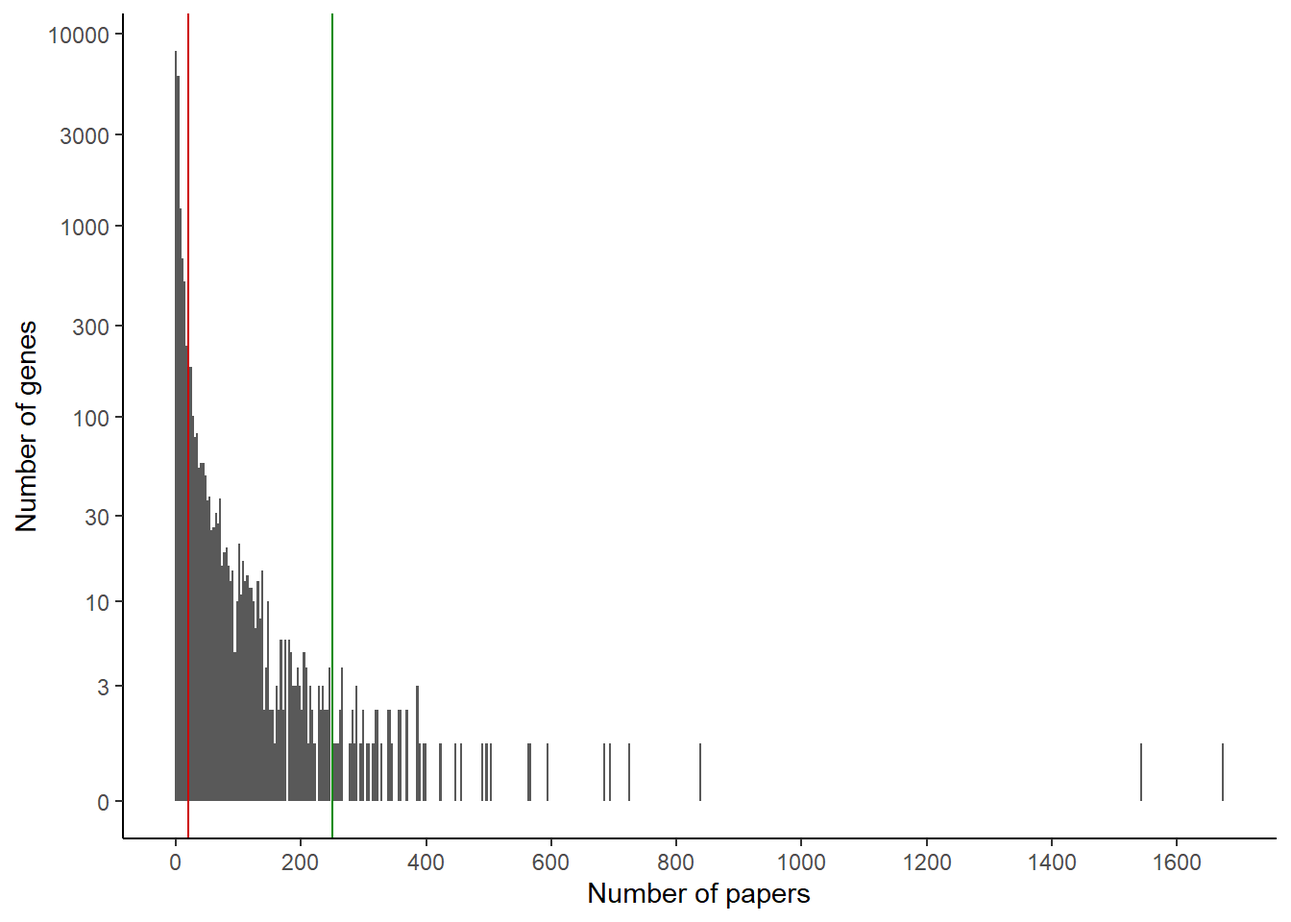
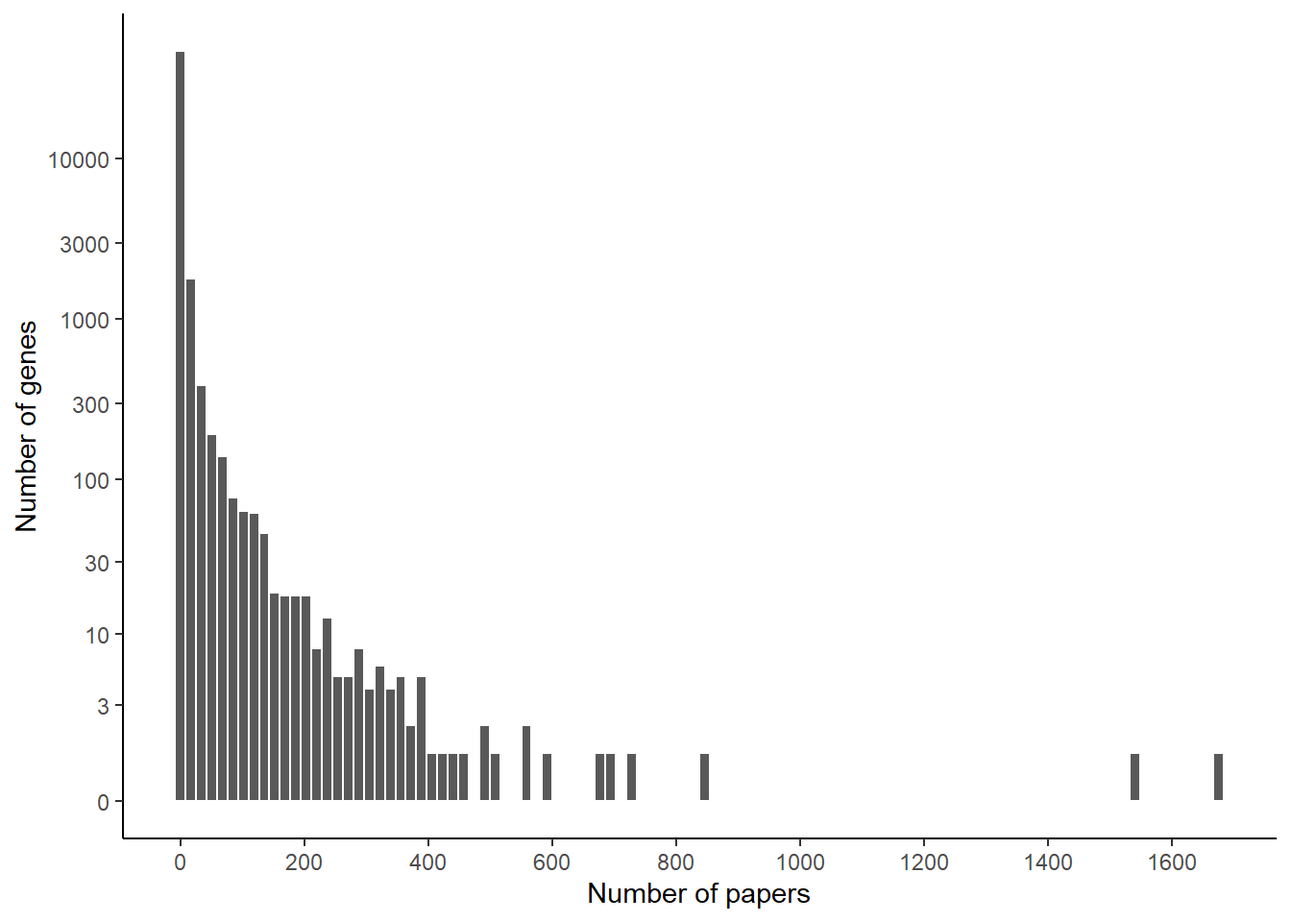
Built site for gh-pages

diff --git a/posts/most_studied_genes/index.html b/posts/most_studied_genes/index.html
@@ -2,7 +2,7 @@
 <html xmlns="http://www.w3.org/1999/xhtml" lang="en" xml:lang="en"><head>
 
 <meta charset="utf-8">
-<meta name="generator" content="quarto-1.3.353">
+<meta name="generator" content="quarto-1.3.433">
 
 <meta name="viewport" content="width=device-width, initial-scale=1.0, user-scalable=yes">
 
@@ -91,7 +91,8 @@ pre > code.sourceCode > span > a:first-child::before { text-decoration: underlin
     "search-more-matches-text": "more matches in this document",
     "search-clear-button-title": "Clear",
     "search-detached-cancel-button-title": "Cancel",
-    "search-submit-button-title": "Submit"
+    "search-submit-button-title": "Submit",
+    "search-label": "Search"
   }
 }</script>
 
@@ -184,39 +185,23 @@ pre > code.sourceCode > span > a:first-child::before { text-decoration: underlin
 <section id="data-download" class="level1">
 <h1>Data download</h1>
 <p>We want to find how many publications are associated with each gene. Wormbase offers us several tools to that effect, we will use SimpleMine which is the easiest here. Other possibilities include WormMine or the REST API.</p>
-<p>So, we open <a href="https://wormbase.org//tools/mine/simplemine.cgi">SimpleMine</a>, in Step 2 we select “download results as a tab-delimited file”, in Step 3 we select “Wormbase Gene ID”, “Public Name”, “Expr_pattern Tissue” and “Reference”. And in Step 4 we download “all genes for this species”.</p>
+<p>In a browser, we open <a href="https://wormbase.org//tools/mine/simplemine.cgi">SimpleMine</a>. For “Step 1”, we can simply select <em>Caenorhabditis elegans</em>, in “Step 2” we will “download results as a tab-delimited file”, in Step 3 we select “Wormbase Gene ID”, “Public Name”, “Expr_pattern Tissue” and “Reference”. And in Step 4 we download “all genes for this species”.</p>
+<p>We can then download the data. We need a tool to process it, here, I will use R.</p>
 <section id="data-loading" class="level2">
 <h2 class="anchored" data-anchor-id="data-loading">Data loading</h2>
-<p>Now we read this data in R. We also rename the columns for names that are easier to work with. And if you look through the data, you may notice a number of genes do not have references associated, we need to ensure this is registered correctly.</p>
+<p>The first step is to read the data into R, we also rename the columns for names that are easier to work with. And if you look through the data, you may notice a number of genes do not have references associated (marked as “N.A.”), we need to ensure this is registered correctly.</p>
 <div class="cell">
-<div class="sourceCode cell-code" id="cb1"><pre class="sourceCode r code-with-copy"><code class="sourceCode r"><span id="cb1-1"><a href="#cb1-1" aria-hidden="true" tabindex="-1"></a><span class="fu">suppressPackageStartupMessages</span>(<span class="fu">library</span>(tidyverse))</span></code><button title="Copy to Clipboard" class="code-copy-button"><i class="bi"></i></button></pre></div>
-<div class="cell-output cell-output-stderr">
-<pre><code>Warning: package 'tidyverse' was built under R version 4.3.2</code></pre>
-</div>
-<div class="cell-output cell-output-stderr">
-<pre><code>Warning: package 'ggplot2' was built under R version 4.3.2</code></pre>
-</div>
-<div class="cell-output cell-output-stderr">
-<pre><code>Warning: package 'tidyr' was built under R version 4.3.2</code></pre>
-</div>
-<div class="cell-output cell-output-stderr">
-<pre><code>Warning: package 'dplyr' was built under R version 4.3.2</code></pre>
-</div>
-<div class="cell-output cell-output-stderr">
-<pre><code>Warning: package 'forcats' was built under R version 4.3.2</code></pre>
-</div>
-<div class="cell-output cell-output-stderr">
-<pre><code>Warning: package 'lubridate' was built under R version 4.3.2</code></pre>
-</div>
-<div class="sourceCode cell-code" id="cb8"><pre class="sourceCode r code-with-copy"><code class="sourceCode r"><span id="cb8-1"><a href="#cb8-1" aria-hidden="true" tabindex="-1"></a>simplemine_results <span class="ot">&lt;-</span> <span class="fu">read_tsv</span>(<span class="st">"data/simplemine_results.txt"</span>,</span>
-<span id="cb8-2"><a href="#cb8-2" aria-hidden="true" tabindex="-1"></a>                               <span class="at">col_types =</span> <span class="st">"ccccc"</span>,</span>
-<span id="cb8-3"><a href="#cb8-3" aria-hidden="true" tabindex="-1"></a>                               <span class="at">na =</span> <span class="st">"N.A."</span>) <span class="sc">|&gt;</span></span>
-<span id="cb8-4"><a href="#cb8-4" aria-hidden="true" tabindex="-1"></a>  <span class="fu">select</span>(<span class="at">gene_id =</span> <span class="st">`</span><span class="at">WormBase Gene ID</span><span class="st">`</span>,</span>
-<span id="cb8-5"><a href="#cb8-5" aria-hidden="true" tabindex="-1"></a>         <span class="at">gene_name =</span> <span class="st">`</span><span class="at">Public Name</span><span class="st">`</span>,</span>
-<span id="cb8-6"><a href="#cb8-6" aria-hidden="true" tabindex="-1"></a>         <span class="at">expr_pattern =</span> <span class="st">`</span><span class="at">Expr_pattern Tissue</span><span class="st">`</span>,</span>
-<span id="cb8-7"><a href="#cb8-7" aria-hidden="true" tabindex="-1"></a>         <span class="at">references =</span> Reference)</span>
-<span id="cb8-8"><a href="#cb8-8" aria-hidden="true" tabindex="-1"></a></span>
-<span id="cb8-9"><a href="#cb8-9" aria-hidden="true" tabindex="-1"></a>simplemine_results</span></code><button title="Copy to Clipboard" class="code-copy-button"><i class="bi"></i></button></pre></div>
+<div class="sourceCode cell-code" id="cb1"><pre class="sourceCode r code-with-copy"><code class="sourceCode r"><span id="cb1-1"><a href="#cb1-1" aria-hidden="true" tabindex="-1"></a><span class="fu">suppressPackageStartupMessages</span>(<span class="fu">library</span>(tidyverse))</span>
+<span id="cb1-2"><a href="#cb1-2" aria-hidden="true" tabindex="-1"></a></span>
+<span id="cb1-3"><a href="#cb1-3" aria-hidden="true" tabindex="-1"></a>simplemine_results <span class="ot">&lt;-</span> <span class="fu">read_tsv</span>(<span class="st">"data/simplemine_results.txt"</span>,</span>
+<span id="cb1-4"><a href="#cb1-4" aria-hidden="true" tabindex="-1"></a>                               <span class="at">col_types =</span> <span class="st">"ccccc"</span>,</span>
+<span id="cb1-5"><a href="#cb1-5" aria-hidden="true" tabindex="-1"></a>                               <span class="at">na =</span> <span class="st">"N.A."</span>) <span class="sc">|&gt;</span></span>
+<span id="cb1-6"><a href="#cb1-6" aria-hidden="true" tabindex="-1"></a>  <span class="fu">select</span>(<span class="at">gene_id =</span> <span class="st">`</span><span class="at">WormBase Gene ID</span><span class="st">`</span>,</span>
+<span id="cb1-7"><a href="#cb1-7" aria-hidden="true" tabindex="-1"></a>         <span class="at">gene_name =</span> <span class="st">`</span><span class="at">Public Name</span><span class="st">`</span>,</span>
+<span id="cb1-8"><a href="#cb1-8" aria-hidden="true" tabindex="-1"></a>         <span class="at">expr_pattern =</span> <span class="st">`</span><span class="at">Expr_pattern Tissue</span><span class="st">`</span>,</span>
+<span id="cb1-9"><a href="#cb1-9" aria-hidden="true" tabindex="-1"></a>         <span class="at">references =</span> Reference)</span>
+<span id="cb1-10"><a href="#cb1-10" aria-hidden="true" tabindex="-1"></a></span>
+<span id="cb1-11"><a href="#cb1-11" aria-hidden="true" tabindex="-1"></a>simplemine_results</span></code><button title="Copy to Clipboard" class="code-copy-button"><i class="bi"></i></button></pre></div>
 <div class="cell-output cell-output-stdout">
 <pre><code># A tibble: 49,541 × 4
    gene_id        gene_name expr_pattern                              references
@@ -234,84 +219,119 @@ pre > code.sourceCode > span > a:first-child::before { text-decoration: underlin
 # ℹ 49,531 more rows</code></pre>
 </div>
 </div>
-<p>So w have one row per gene, let’s make it one row per reference and count the number of rows for a given gene.</p>
+<p>In this format, the references are all packed in a single long string. We can count how many there are by relying on the consistent format. We just need to handle the case of references being “NA”. R would interpret it as “some unknown number of references”, but we know this actually means “no reference”.</p>
 <div class="cell">
-<div class="sourceCode cell-code" id="cb10"><pre class="sourceCode r code-with-copy"><code class="sourceCode r"><span id="cb10-1"><a href="#cb10-1" aria-hidden="true" tabindex="-1"></a>papers_per_gene <span class="ot">&lt;-</span> simplemine_results <span class="sc">|&gt;</span></span>
-<span id="cb10-2"><a href="#cb10-2" aria-hidden="true" tabindex="-1"></a>  <span class="fu">separate_rows</span>(references, <span class="at">sep =</span> <span class="st">","</span>) <span class="sc">|&gt;</span></span>
-<span id="cb10-3"><a href="#cb10-3" aria-hidden="true" tabindex="-1"></a>  <span class="fu">filter</span>(<span class="sc">!</span><span class="fu">is.na</span>(references)) <span class="sc">|&gt;</span></span>
-<span id="cb10-4"><a href="#cb10-4" aria-hidden="true" tabindex="-1"></a>  <span class="fu">group_by</span>(gene_id, gene_name) <span class="sc">|&gt;</span></span>
-<span id="cb10-5"><a href="#cb10-5" aria-hidden="true" tabindex="-1"></a>  <span class="fu">summarize</span>(<span class="at">nb_papers =</span> <span class="fu">n</span>(),</span>
-<span id="cb10-6"><a href="#cb10-6" aria-hidden="true" tabindex="-1"></a>            <span class="at">.groups =</span> <span class="st">"drop"</span>) <span class="sc">|&gt;</span></span>
-<span id="cb10-7"><a href="#cb10-7" aria-hidden="true" tabindex="-1"></a>  <span class="fu">arrange</span>(<span class="fu">desc</span>(nb_papers))</span>
-<span id="cb10-8"><a href="#cb10-8" aria-hidden="true" tabindex="-1"></a></span>
-<span id="cb10-9"><a href="#cb10-9" aria-hidden="true" tabindex="-1"></a>papers_per_gene</span></code><button title="Copy to Clipboard" class="code-copy-button"><i class="bi"></i></button></pre></div>
+<div class="sourceCode cell-code" id="cb3"><pre class="sourceCode r code-with-copy"><code class="sourceCode r"><span id="cb3-1"><a href="#cb3-1" aria-hidden="true" tabindex="-1"></a>papers_per_gene <span class="ot">&lt;-</span> simplemine_results <span class="sc">|&gt;</span></span>
+<span id="cb3-2"><a href="#cb3-2" aria-hidden="true" tabindex="-1"></a>  <span class="fu">mutate</span>(<span class="at">nb_papers =</span> <span class="fu">str_count</span>(references, <span class="st">"WBPaper</span><span class="sc">\\</span><span class="st">d{8}"</span>),</span>
+<span id="cb3-3"><a href="#cb3-3" aria-hidden="true" tabindex="-1"></a>         <span class="at">nb_papers =</span> <span class="fu">if_else</span>(<span class="fu">is.na</span>(references), <span class="dv">0</span>, nb_papers)) <span class="sc">|&gt;</span></span>
+<span id="cb3-4"><a href="#cb3-4" aria-hidden="true" tabindex="-1"></a>  <span class="fu">arrange</span>(<span class="fu">desc</span>(nb_papers))</span>
+<span id="cb3-5"><a href="#cb3-5" aria-hidden="true" tabindex="-1"></a></span>
+<span id="cb3-6"><a href="#cb3-6" aria-hidden="true" tabindex="-1"></a>papers_per_gene</span></code><button title="Copy to Clipboard" class="code-copy-button"><i class="bi"></i></button></pre></div>
 <div class="cell-output cell-output-stdout">
-<pre><code># A tibble: 18,369 × 3
-   gene_id        gene_name nb_papers
-   &lt;chr&gt;          &lt;chr&gt;         &lt;int&gt;
- 1 WBGene00000912 daf-16         1675
- 2 WBGene00000898 daf-2          1543
- 3 WBGene00001609 glp-1           838
- 4 WBGene00000417 ced-3           724
- 5 WBGene00004804 skn-1           695
- 6 WBGene00003001 lin-12          685
- 7 WBGene00000090 age-1           595
- 8 WBGene00002335 let-60          566
- 9 WBGene00006789 unc-54          562
-10 WBGene00000418 ced-4           502
-# ℹ 18,359 more rows</code></pre>
+<pre><code># A tibble: 49,541 × 5
+   gene_id        gene_name expr_pattern                    references nb_papers
+   &lt;chr&gt;          &lt;chr&gt;     &lt;chr&gt;                           &lt;chr&gt;          &lt;dbl&gt;
+ 1 WBGene00000912 daf-16    AIYL, AIYR, anterior distal ti… WBPaper00…      1675
+ 2 WBGene00000898 daf-2     ADFL, ADFR, amphid neuron, ASH… WBPaper00…      1543
+ 3 WBGene00001609 glp-1     AB, AB lineage cell, ABa, ABal… WBPaper00…       838
+ 4 WBGene00000417 ced-3     ABaraapapaa, ABaraapapaad, ABa… WBPaper00…       724
+ 5 WBGene00004804 skn-1     AB, ABa, ABp, AIYL, AIYR, ante… WBPaper00…       695
+ 6 WBGene00003001 lin-12    ABplaaa, ABplpapp, ccDL, ccDR,… WBPaper00…       685
+ 7 WBGene00000090 age-1     accessory cell, amphid neuron,… WBPaper00…       595
+ 8 WBGene00002335 let-60    AIMR, AIYR, anchor cell, anter… WBPaper00…       566
+ 9 WBGene00006789 unc-54    anal depressor muscle, anal sp… WBPaper00…       562
+10 WBGene00000418 ced-4     anal sphincter muscle, apoptot… WBPaper00…       502
+# ℹ 49,531 more rows</code></pre>
 </div>
 </div>
-<p>Perhaps unsurprisingly, the 2 most studied genes in worms are <em>daf-2</em> and <em>daf-16</em>. Then we see a lot more genes that are quite well-studied too. Let’s look at the distribution to see if there are distinct classes.</p>
+<p>Alternatively, an approach that is less efficient here, but maybe more general, is to make it one row per reference and count the number of rows for a given gene.</p>
 <div class="cell">
-<div class="sourceCode cell-code" id="cb12"><pre class="sourceCode r code-with-copy"><code class="sourceCode r"><span id="cb12-1"><a href="#cb12-1" aria-hidden="true" tabindex="-1"></a><span class="fu">ggplot</span>(papers_per_gene) <span class="sc">+</span></span>
-<span id="cb12-2"><a href="#cb12-2" aria-hidden="true" tabindex="-1"></a>  <span class="fu">geom_histogram</span>(<span class="fu">aes</span>(<span class="at">x=</span>nb_papers), <span class="at">bins =</span> <span class="dv">100</span>, <span class="at">color =</span> <span class="st">"white"</span>) <span class="sc">+</span></span>
-<span id="cb12-3"><a href="#cb12-3" aria-hidden="true" tabindex="-1"></a>  <span class="fu">theme_classic</span>() <span class="sc">+</span></span>
-<span id="cb12-4"><a href="#cb12-4" aria-hidden="true" tabindex="-1"></a>  <span class="fu">scale_x_continuous</span>(<span class="at">n.breaks =</span> <span class="dv">10</span>) <span class="sc">+</span></span>
-<span id="cb12-5"><a href="#cb12-5" aria-hidden="true" tabindex="-1"></a>  <span class="fu">scale_y_continuous</span>(<span class="at">trans =</span> <span class="st">"log1p"</span>, <span class="at">breaks =</span> <span class="fu">c</span>(<span class="dv">0</span>,<span class="dv">3</span>,<span class="dv">10</span>,<span class="dv">30</span>,<span class="dv">100</span>,<span class="dv">300</span>,<span class="dv">1000</span>,<span class="dv">3000</span>,<span class="dv">10000</span>)) <span class="sc">+</span></span>
-<span id="cb12-6"><a href="#cb12-6" aria-hidden="true" tabindex="-1"></a>  <span class="fu">xlab</span>(<span class="st">"Number of papers"</span>) <span class="sc">+</span> <span class="fu">ylab</span>(<span class="st">"Number of genes"</span>)</span></code><button title="Copy to Clipboard" class="code-copy-button"><i class="bi"></i></button></pre></div>
-<div class="cell-output-display">
-<p><img src="index_files/figure-html/unnamed-chunk-3-1.png" class="img-fluid" width="672"></p>
+<div class="sourceCode cell-code" id="cb5"><pre class="sourceCode r code-with-copy"><code class="sourceCode r"><span id="cb5-1"><a href="#cb5-1" aria-hidden="true" tabindex="-1"></a>papers_per_gene2 <span class="ot">&lt;-</span> simplemine_results <span class="sc">|&gt;</span></span>
+<span id="cb5-2"><a href="#cb5-2" aria-hidden="true" tabindex="-1"></a>  <span class="fu">separate_rows</span>(references, <span class="at">sep =</span> <span class="st">","</span>) <span class="sc">|&gt;</span></span>
+<span id="cb5-3"><a href="#cb5-3" aria-hidden="true" tabindex="-1"></a>  <span class="fu">filter</span>(<span class="sc">!</span><span class="fu">is.na</span>(references)) <span class="sc">|&gt;</span></span>
+<span id="cb5-4"><a href="#cb5-4" aria-hidden="true" tabindex="-1"></a>  <span class="fu">group_by</span>(gene_id, gene_name) <span class="sc">|&gt;</span></span>
+<span id="cb5-5"><a href="#cb5-5" aria-hidden="true" tabindex="-1"></a>  <span class="fu">summarize</span>(<span class="at">nb_papers =</span> <span class="fu">n</span>(),</span>
+<span id="cb5-6"><a href="#cb5-6" aria-hidden="true" tabindex="-1"></a>            <span class="at">.groups =</span> <span class="st">"drop"</span>) <span class="sc">|&gt;</span></span>
+<span id="cb5-7"><a href="#cb5-7" aria-hidden="true" tabindex="-1"></a>  <span class="fu">arrange</span>(<span class="fu">desc</span>(nb_papers))</span>
+<span id="cb5-8"><a href="#cb5-8" aria-hidden="true" tabindex="-1"></a></span>
+<span id="cb5-9"><a href="#cb5-9" aria-hidden="true" tabindex="-1"></a><span class="fu">all.equal</span>(papers_per_gene <span class="sc">|&gt;</span></span>
+<span id="cb5-10"><a href="#cb5-10" aria-hidden="true" tabindex="-1"></a>            <span class="fu">filter</span>(<span class="sc">!</span> <span class="fu">is.na</span>(references)) <span class="sc">|&gt;</span></span>
+<span id="cb5-11"><a href="#cb5-11" aria-hidden="true" tabindex="-1"></a>            <span class="fu">select</span>(<span class="sc">-</span>expr_pattern, <span class="sc">-</span>references),</span>
+<span id="cb5-12"><a href="#cb5-12" aria-hidden="true" tabindex="-1"></a>          papers_per_gene2)</span></code><button title="Copy to Clipboard" class="code-copy-button"><i class="bi"></i></button></pre></div>
+<div class="cell-output cell-output-stdout">
+<pre><code>[1] TRUE</code></pre>
 </div>
 </div>
-<p>So the categories we could distinguish are: * genes with more than 250 papers, that appeared at the top of the list * genes with many papers (let’s take &gt; 20) * genes with few or no papers</p>
-<p>We can visualize the cutoffs on the histogram:</p>
+<p>Looking at the top genes, perhaps unsurprisingly, the 2 most studied genes in worms are <em>daf-2</em> and <em>daf-16</em>. Then we see a lot more genes that also appear widely cited. Let’s look at the distribution to see if we can identify distinct categories.</p>
 <div class="cell">
-<div class="sourceCode cell-code" id="cb13"><pre class="sourceCode r code-with-copy"><code class="sourceCode r"><span id="cb13-1"><a href="#cb13-1" aria-hidden="true" tabindex="-1"></a><span class="fu">ggplot</span>(papers_per_gene) <span class="sc">+</span></span>
-<span id="cb13-2"><a href="#cb13-2" aria-hidden="true" tabindex="-1"></a>  <span class="fu">geom_histogram</span>(<span class="fu">aes</span>(<span class="at">x=</span>nb_papers), <span class="at">bins =</span> <span class="dv">500</span>) <span class="sc">+</span></span>
-<span id="cb13-3"><a href="#cb13-3" aria-hidden="true" tabindex="-1"></a>  <span class="fu">theme_classic</span>() <span class="sc">+</span></span>
-<span id="cb13-4"><a href="#cb13-4" aria-hidden="true" tabindex="-1"></a>  <span class="fu">scale_x_continuous</span>(<span class="at">n.breaks =</span> <span class="dv">10</span>) <span class="sc">+</span></span>
-<span id="cb13-5"><a href="#cb13-5" aria-hidden="true" tabindex="-1"></a>  <span class="fu">scale_y_continuous</span>(<span class="at">trans =</span> <span class="st">"log1p"</span>, <span class="at">breaks =</span> <span class="fu">c</span>(<span class="dv">0</span>,<span class="dv">3</span>,<span class="dv">10</span>,<span class="dv">30</span>,<span class="dv">100</span>,<span class="dv">300</span>,<span class="dv">1000</span>,<span class="dv">3000</span>,<span class="dv">10000</span>)) <span class="sc">+</span></span>
-<span id="cb13-6"><a href="#cb13-6" aria-hidden="true" tabindex="-1"></a>  <span class="fu">xlab</span>(<span class="st">"Number of papers"</span>) <span class="sc">+</span> <span class="fu">ylab</span>(<span class="st">"Number of genes"</span>) <span class="sc">+</span></span>
-<span id="cb13-7"><a href="#cb13-7" aria-hidden="true" tabindex="-1"></a>  <span class="fu">geom_vline</span>(<span class="fu">aes</span>(<span class="at">xintercept =</span> <span class="dv">20</span>), <span class="at">color =</span> <span class="st">"red3"</span>) <span class="sc">+</span></span>
-<span id="cb13-8"><a href="#cb13-8" aria-hidden="true" tabindex="-1"></a>  <span class="fu">geom_vline</span>(<span class="fu">aes</span>(<span class="at">xintercept =</span> <span class="dv">250</span>), <span class="at">color =</span> <span class="st">"green4"</span>)</span></code><button title="Copy to Clipboard" class="code-copy-button"><i class="bi"></i></button></pre></div>
+<div class="sourceCode cell-code" id="cb7"><pre class="sourceCode r code-with-copy"><code class="sourceCode r"><span id="cb7-1"><a href="#cb7-1" aria-hidden="true" tabindex="-1"></a><span class="fu">ggplot</span>(papers_per_gene) <span class="sc">+</span></span>
+<span id="cb7-2"><a href="#cb7-2" aria-hidden="true" tabindex="-1"></a>  <span class="fu">geom_histogram</span>(<span class="fu">aes</span>(<span class="at">x=</span>nb_papers), <span class="at">bins =</span> <span class="dv">100</span>, <span class="at">color =</span> <span class="st">"white"</span>) <span class="sc">+</span></span>
+<span id="cb7-3"><a href="#cb7-3" aria-hidden="true" tabindex="-1"></a>  <span class="fu">theme_classic</span>() <span class="sc">+</span></span>
+<span id="cb7-4"><a href="#cb7-4" aria-hidden="true" tabindex="-1"></a>  <span class="fu">scale_x_continuous</span>(<span class="at">n.breaks =</span> <span class="dv">10</span>) <span class="sc">+</span></span>
+<span id="cb7-5"><a href="#cb7-5" aria-hidden="true" tabindex="-1"></a>  <span class="fu">scale_y_continuous</span>(<span class="at">trans =</span> <span class="st">"log1p"</span>, <span class="at">breaks =</span> <span class="fu">c</span>(<span class="dv">0</span>,<span class="dv">3</span>,<span class="dv">10</span>,<span class="dv">30</span>,<span class="dv">100</span>,<span class="dv">300</span>,<span class="dv">1000</span>,<span class="dv">3000</span>,<span class="dv">10000</span>)) <span class="sc">+</span></span>
+<span id="cb7-6"><a href="#cb7-6" aria-hidden="true" tabindex="-1"></a>  <span class="fu">xlab</span>(<span class="st">"Number of papers"</span>) <span class="sc">+</span> <span class="fu">ylab</span>(<span class="st">"Number of genes"</span>)</span></code><button title="Copy to Clipboard" class="code-copy-button"><i class="bi"></i></button></pre></div>
 <div class="cell-output-display">
 <p><img src="index_files/figure-html/unnamed-chunk-4-1.png" class="img-fluid" width="672"></p>
 </div>
 </div>
+<p>So categories we could distinguish are:</p>
+<ul>
+<li>genes with more than 250 papers, that appeared at the top of the list</li>
+<li>genes with many papers (let’s take &gt; 20)</li>
+<li>genes with few or no papers</li>
+</ul>
+<p>We can visualize these cutoffs on the histogram:</p>
+<div class="cell">
+<div class="sourceCode cell-code" id="cb8"><pre class="sourceCode r code-with-copy"><code class="sourceCode r"><span id="cb8-1"><a href="#cb8-1" aria-hidden="true" tabindex="-1"></a><span class="fu">ggplot</span>(papers_per_gene) <span class="sc">+</span></span>
+<span id="cb8-2"><a href="#cb8-2" aria-hidden="true" tabindex="-1"></a>  <span class="fu">geom_histogram</span>(<span class="fu">aes</span>(<span class="at">x=</span>nb_papers), <span class="at">bins =</span> <span class="dv">500</span>) <span class="sc">+</span></span>
+<span id="cb8-3"><a href="#cb8-3" aria-hidden="true" tabindex="-1"></a>  <span class="fu">theme_classic</span>() <span class="sc">+</span></span>
+<span id="cb8-4"><a href="#cb8-4" aria-hidden="true" tabindex="-1"></a>  <span class="fu">scale_x_continuous</span>(<span class="at">n.breaks =</span> <span class="dv">10</span>) <span class="sc">+</span></span>
+<span id="cb8-5"><a href="#cb8-5" aria-hidden="true" tabindex="-1"></a>  <span class="fu">scale_y_continuous</span>(<span class="at">trans =</span> <span class="st">"log1p"</span>, <span class="at">breaks =</span> <span class="fu">c</span>(<span class="dv">0</span>,<span class="dv">3</span>,<span class="dv">10</span>,<span class="dv">30</span>,<span class="dv">100</span>,<span class="dv">300</span>,<span class="dv">1000</span>,<span class="dv">3000</span>,<span class="dv">10000</span>)) <span class="sc">+</span></span>
+<span id="cb8-6"><a href="#cb8-6" aria-hidden="true" tabindex="-1"></a>  <span class="fu">xlab</span>(<span class="st">"Number of papers"</span>) <span class="sc">+</span> <span class="fu">ylab</span>(<span class="st">"Number of genes"</span>) <span class="sc">+</span></span>
+<span id="cb8-7"><a href="#cb8-7" aria-hidden="true" tabindex="-1"></a>  <span class="fu">geom_vline</span>(<span class="fu">aes</span>(<span class="at">xintercept =</span> <span class="dv">20</span>), <span class="at">color =</span> <span class="st">"red3"</span>) <span class="sc">+</span></span>
+<span id="cb8-8"><a href="#cb8-8" aria-hidden="true" tabindex="-1"></a>  <span class="fu">geom_vline</span>(<span class="fu">aes</span>(<span class="at">xintercept =</span> <span class="dv">250</span>), <span class="at">color =</span> <span class="st">"green4"</span>)</span></code><button title="Copy to Clipboard" class="code-copy-button"><i class="bi"></i></button></pre></div>
+<div class="cell-output-display">
+<p><img src="index_files/figure-html/unnamed-chunk-5-1.png" class="img-fluid" width="672"></p>
+</div>
+</div>
+<p>It might help to visualize the x axis on a log scale:</p>
+<div class="cell">
+<div class="sourceCode cell-code" id="cb9"><pre class="sourceCode r code-with-copy"><code class="sourceCode r"><span id="cb9-1"><a href="#cb9-1" aria-hidden="true" tabindex="-1"></a><span class="fu">ggplot</span>(papers_per_gene) <span class="sc">+</span></span>
+<span id="cb9-2"><a href="#cb9-2" aria-hidden="true" tabindex="-1"></a>  <span class="fu">geom_histogram</span>(<span class="fu">aes</span>(<span class="at">x=</span>nb_papers), <span class="at">bins =</span> <span class="dv">500</span>) <span class="sc">+</span></span>
+<span id="cb9-3"><a href="#cb9-3" aria-hidden="true" tabindex="-1"></a>  <span class="fu">theme_classic</span>() <span class="sc">+</span></span>
+<span id="cb9-4"><a href="#cb9-4" aria-hidden="true" tabindex="-1"></a>  <span class="fu">scale_x_continuous</span>(<span class="at">trans =</span> <span class="st">"log1p"</span>, <span class="at">breaks =</span> <span class="fu">c</span>(<span class="dv">0</span>, <span class="dv">10</span>, <span class="dv">20</span>, <span class="dv">50</span>, <span class="dv">100</span>, <span class="dv">250</span>, <span class="dv">1000</span>)) <span class="sc">+</span></span>
+<span id="cb9-5"><a href="#cb9-5" aria-hidden="true" tabindex="-1"></a>  <span class="fu">scale_y_continuous</span>(<span class="at">trans =</span> <span class="st">"log1p"</span>, <span class="at">breaks =</span> <span class="fu">c</span>(<span class="dv">0</span>,<span class="dv">3</span>,<span class="dv">10</span>,<span class="dv">30</span>,<span class="dv">100</span>,<span class="dv">300</span>,<span class="dv">1000</span>,<span class="dv">3000</span>,<span class="dv">10000</span>)) <span class="sc">+</span></span>
+<span id="cb9-6"><a href="#cb9-6" aria-hidden="true" tabindex="-1"></a>  <span class="fu">xlab</span>(<span class="st">"Number of papers"</span>) <span class="sc">+</span> <span class="fu">ylab</span>(<span class="st">"Number of genes"</span>) <span class="sc">+</span></span>
+<span id="cb9-7"><a href="#cb9-7" aria-hidden="true" tabindex="-1"></a>  <span class="fu">geom_vline</span>(<span class="fu">aes</span>(<span class="at">xintercept =</span> <span class="dv">20</span>), <span class="at">color =</span> <span class="st">"red3"</span>) <span class="sc">+</span></span>
+<span id="cb9-8"><a href="#cb9-8" aria-hidden="true" tabindex="-1"></a>  <span class="fu">geom_vline</span>(<span class="fu">aes</span>(<span class="at">xintercept =</span> <span class="dv">250</span>), <span class="at">color =</span> <span class="st">"green4"</span>)</span></code><button title="Copy to Clipboard" class="code-copy-button"><i class="bi"></i></button></pre></div>
+<div class="cell-output-display">
+<p><img src="index_files/figure-html/unnamed-chunk-6-1.png" class="img-fluid" width="672"></p>
+</div>
+</div>
+<p>Looking at this graph, maybe a cutoff of 50 genes would be more appropriate than 20. But from domain knowledge, 50 seems too high a cutoff: would we really call a gene with 25 papers poorly studied?</p>
 <p>We can look at the number of genes in each category:</p>
 <div class="cell">
-<div class="sourceCode cell-code" id="cb14"><pre class="sourceCode r code-with-copy"><code class="sourceCode r"><span id="cb14-1"><a href="#cb14-1" aria-hidden="true" tabindex="-1"></a>papers_per_gene <span class="sc">|&gt;</span></span>
-<span id="cb14-2"><a href="#cb14-2" aria-hidden="true" tabindex="-1"></a>  <span class="fu">mutate</span>(<span class="at">category =</span> <span class="fu">cut</span>(nb_papers,</span>
-<span id="cb14-3"><a href="#cb14-3" aria-hidden="true" tabindex="-1"></a>                        <span class="at">breaks =</span> <span class="fu">c</span>(<span class="dv">0</span>,<span class="dv">20</span>,<span class="dv">250</span>,<span class="cn">Inf</span>),</span>
-<span id="cb14-4"><a href="#cb14-4" aria-hidden="true" tabindex="-1"></a>                        <span class="at">labels =</span> <span class="fu">c</span>(<span class="st">"lowly"</span>,<span class="st">"medium"</span>,<span class="st">"highly"</span>))) <span class="sc">|&gt;</span> </span>
-<span id="cb14-5"><a href="#cb14-5" aria-hidden="true" tabindex="-1"></a>  <span class="fu">group_by</span>(category) <span class="sc">|&gt;</span></span>
-<span id="cb14-6"><a href="#cb14-6" aria-hidden="true" tabindex="-1"></a>  <span class="fu">summarize</span>(<span class="at">nb_genes =</span> <span class="fu">n</span>(),</span>
-<span id="cb14-7"><a href="#cb14-7" aria-hidden="true" tabindex="-1"></a>            <span class="at">.groups =</span> <span class="st">"drop"</span>)</span></code><button title="Copy to Clipboard" class="code-copy-button"><i class="bi"></i></button></pre></div>
+<div class="sourceCode cell-code" id="cb10"><pre class="sourceCode r code-with-copy"><code class="sourceCode r"><span id="cb10-1"><a href="#cb10-1" aria-hidden="true" tabindex="-1"></a>papers_per_gene <span class="sc">|&gt;</span></span>
+<span id="cb10-2"><a href="#cb10-2" aria-hidden="true" tabindex="-1"></a>  <span class="fu">mutate</span>(<span class="at">category =</span> <span class="fu">cut</span>(nb_papers,</span>
+<span id="cb10-3"><a href="#cb10-3" aria-hidden="true" tabindex="-1"></a>                        <span class="at">breaks =</span> <span class="fu">c</span>(<span class="sc">-</span><span class="dv">1</span>, <span class="dv">3</span>, <span class="dv">20</span>, <span class="dv">250</span>, <span class="cn">Inf</span>),</span>
+<span id="cb10-4"><a href="#cb10-4" aria-hidden="true" tabindex="-1"></a>                        <span class="at">labels =</span> <span class="fu">c</span>(<span class="st">"unstudied"</span>, <span class="st">"lowly"</span>,<span class="st">"medium"</span>,<span class="st">"highly"</span>))) <span class="sc">|&gt;</span> </span>
+<span id="cb10-5"><a href="#cb10-5" aria-hidden="true" tabindex="-1"></a>  <span class="fu">summarize</span>(<span class="at">nb_genes =</span> <span class="fu">n</span>(),</span>
+<span id="cb10-6"><a href="#cb10-6" aria-hidden="true" tabindex="-1"></a>            <span class="at">.by =</span> category)</span></code><button title="Copy to Clipboard" class="code-copy-button"><i class="bi"></i></button></pre></div>
 <div class="cell-output cell-output-stdout">
-<pre><code># A tibble: 3 × 2
-  category nb_genes
-  &lt;fct&gt;       &lt;int&gt;
-1 lowly       17002
-2 medium       1308
-3 highly         59</code></pre>
+<pre><code># A tibble: 4 × 2
+  category  nb_genes
+  &lt;fct&gt;        &lt;int&gt;
+1 highly          59
+2 medium        1308
+3 lowly         4602
+4 unstudied    43572</code></pre>
 </div>
 </div>
-<p>So, there are 59 highly studied genes, and another 1308 well-studied genes. Let’s take a closer look at these 59 most cited genes.</p>
+<p>So, there are 59 highly studied genes, and another 1308 well-studied genes. Let’s take a closer look at these most cited genes.</p>
 <div class="cell">
-<div class="sourceCode cell-code" id="cb16"><pre class="sourceCode r code-with-copy"><code class="sourceCode r"><span id="cb16-1"><a href="#cb16-1" aria-hidden="true" tabindex="-1"></a>papers_per_gene <span class="sc">|&gt;</span></span>
-<span id="cb16-2"><a href="#cb16-2" aria-hidden="true" tabindex="-1"></a>  <span class="fu">filter</span>(nb_papers <span class="sc">&gt;=</span> <span class="dv">250</span>) <span class="sc">|&gt;</span></span>
-<span id="cb16-3"><a href="#cb16-3" aria-hidden="true" tabindex="-1"></a>  <span class="fu">pull</span>(gene_name)</span></code><button title="Copy to Clipboard" class="code-copy-button"><i class="bi"></i></button></pre></div>
+<div class="sourceCode cell-code" id="cb12"><pre class="sourceCode r code-with-copy"><code class="sourceCode r"><span id="cb12-1"><a href="#cb12-1" aria-hidden="true" tabindex="-1"></a>papers_per_gene <span class="sc">|&gt;</span></span>
+<span id="cb12-2"><a href="#cb12-2" aria-hidden="true" tabindex="-1"></a>  <span class="fu">filter</span>(nb_papers <span class="sc">&gt;=</span> <span class="dv">250</span>) <span class="sc">|&gt;</span></span>
+<span id="cb12-3"><a href="#cb12-3" aria-hidden="true" tabindex="-1"></a>  <span class="fu">pull</span>(gene_name)</span></code><button title="Copy to Clipboard" class="code-copy-button"><i class="bi"></i></button></pre></div>
 <div class="cell-output cell-output-stdout">
 <pre><code> [1] "daf-16"  "daf-2"   "glp-1"   "ced-3"   "skn-1"   "lin-12"  "age-1"  
  [8] "let-60"  "unc-54"  "ced-4"   "daf-12"  "let-23"  "daf-7"   "let-7"  
@@ -329,18 +349,18 @@ pre > code.sourceCode > span > a:first-child::before { text-decoration: underlin
 <h2 class="anchored" data-anchor-id="by-tissue-type">By tissue type</h2>
 <p>Let’s say I’m more interested in neuronal genes that are highly studied. One way to implement such a restriction is to look at which tissue each gene is supposedly expressed in.</p>
 <div class="cell">
-<div class="sourceCode cell-code" id="cb18"><pre class="sourceCode r code-with-copy"><code class="sourceCode r"><span id="cb18-1"><a href="#cb18-1" aria-hidden="true" tabindex="-1"></a>simplemine_results <span class="sc">|&gt;</span></span>
-<span id="cb18-2"><a href="#cb18-2" aria-hidden="true" tabindex="-1"></a>  <span class="fu">mutate</span>(<span class="at">is_neuronal =</span> <span class="fu">str_detect</span>(expr_pattern, <span class="st">"neuron"</span>)) <span class="sc">|&gt;</span></span>
-<span id="cb18-3"><a href="#cb18-3" aria-hidden="true" tabindex="-1"></a>  <span class="fu">filter</span>(is_neuronal) <span class="sc">|&gt;</span></span>
-<span id="cb18-4"><a href="#cb18-4" aria-hidden="true" tabindex="-1"></a>  <span class="fu">separate_rows</span>(references, <span class="at">sep =</span> <span class="st">","</span>) <span class="sc">|&gt;</span></span>
-<span id="cb18-5"><a href="#cb18-5" aria-hidden="true" tabindex="-1"></a>  <span class="fu">filter</span>(<span class="sc">!</span><span class="fu">is.na</span>(references)) <span class="sc">|&gt;</span></span>
-<span id="cb18-6"><a href="#cb18-6" aria-hidden="true" tabindex="-1"></a>  <span class="fu">group_by</span>(gene_id, gene_name) <span class="sc">|&gt;</span></span>
-<span id="cb18-7"><a href="#cb18-7" aria-hidden="true" tabindex="-1"></a>  <span class="fu">summarize</span>(<span class="at">nb_papers =</span> <span class="fu">n</span>(),</span>
-<span id="cb18-8"><a href="#cb18-8" aria-hidden="true" tabindex="-1"></a>            <span class="at">.groups =</span> <span class="st">"drop"</span>) <span class="sc">|&gt;</span></span>
-<span id="cb18-9"><a href="#cb18-9" aria-hidden="true" tabindex="-1"></a>  <span class="fu">arrange</span>(<span class="fu">desc</span>(nb_papers)) <span class="sc">|&gt;</span></span>
-<span id="cb18-10"><a href="#cb18-10" aria-hidden="true" tabindex="-1"></a>  <span class="fu">filter</span>(nb_papers <span class="sc">&gt;=</span> <span class="dv">250</span>) <span class="sc">|&gt;</span></span>
-<span id="cb18-11"><a href="#cb18-11" aria-hidden="true" tabindex="-1"></a>  <span class="fu">select</span>(gene_name, nb_papers) <span class="sc">|&gt;</span></span>
-<span id="cb18-12"><a href="#cb18-12" aria-hidden="true" tabindex="-1"></a>  knitr<span class="sc">::</span><span class="fu">kable</span>()</span></code><button title="Copy to Clipboard" class="code-copy-button"><i class="bi"></i></button></pre></div>
+<div class="sourceCode cell-code" id="cb14"><pre class="sourceCode r code-with-copy"><code class="sourceCode r"><span id="cb14-1"><a href="#cb14-1" aria-hidden="true" tabindex="-1"></a>simplemine_results <span class="sc">|&gt;</span></span>
+<span id="cb14-2"><a href="#cb14-2" aria-hidden="true" tabindex="-1"></a>  <span class="fu">mutate</span>(<span class="at">is_neuronal =</span> <span class="fu">str_detect</span>(expr_pattern, <span class="st">"neuron"</span>)) <span class="sc">|&gt;</span></span>
+<span id="cb14-3"><a href="#cb14-3" aria-hidden="true" tabindex="-1"></a>  <span class="fu">filter</span>(is_neuronal) <span class="sc">|&gt;</span></span>
+<span id="cb14-4"><a href="#cb14-4" aria-hidden="true" tabindex="-1"></a>  <span class="fu">separate_rows</span>(references, <span class="at">sep =</span> <span class="st">","</span>) <span class="sc">|&gt;</span></span>
+<span id="cb14-5"><a href="#cb14-5" aria-hidden="true" tabindex="-1"></a>  <span class="fu">filter</span>(<span class="sc">!</span><span class="fu">is.na</span>(references)) <span class="sc">|&gt;</span></span>
+<span id="cb14-6"><a href="#cb14-6" aria-hidden="true" tabindex="-1"></a>  <span class="fu">group_by</span>(gene_id, gene_name) <span class="sc">|&gt;</span></span>
+<span id="cb14-7"><a href="#cb14-7" aria-hidden="true" tabindex="-1"></a>  <span class="fu">summarize</span>(<span class="at">nb_papers =</span> <span class="fu">n</span>(),</span>
+<span id="cb14-8"><a href="#cb14-8" aria-hidden="true" tabindex="-1"></a>            <span class="at">.groups =</span> <span class="st">"drop"</span>) <span class="sc">|&gt;</span></span>
+<span id="cb14-9"><a href="#cb14-9" aria-hidden="true" tabindex="-1"></a>  <span class="fu">arrange</span>(<span class="fu">desc</span>(nb_papers)) <span class="sc">|&gt;</span></span>
+<span id="cb14-10"><a href="#cb14-10" aria-hidden="true" tabindex="-1"></a>  <span class="fu">filter</span>(nb_papers <span class="sc">&gt;=</span> <span class="dv">250</span>) <span class="sc">|&gt;</span></span>
+<span id="cb14-11"><a href="#cb14-11" aria-hidden="true" tabindex="-1"></a>  <span class="fu">select</span>(gene_name, nb_papers) <span class="sc">|&gt;</span></span>
+<span id="cb14-12"><a href="#cb14-12" aria-hidden="true" tabindex="-1"></a>  knitr<span class="sc">::</span><span class="fu">kable</span>()</span></code><button title="Copy to Clipboard" class="code-copy-button"><i class="bi"></i></button></pre></div>
 <div class="cell-output-display">
 <table class="table table-sm table-striped small">
 <thead>
@@ -518,7 +538,8 @@ pre > code.sourceCode > span > a:first-child::before { text-decoration: underlin
 <section id="limitations" class="level2">
 <h2 class="anchored" data-anchor-id="limitations">Limitations</h2>
 <p>First, we are interested in most studied genes, but we only looked at the most cited genes. For example, <em>unc-54</em> is highly cited, but that may be largely due to its use in transgenes.</p>
-<p>Second, if we are interested in genes studied for their role in a given tissue (e.g.&nbsp;neurons), we would need a classification of the papers they’re cited in. Here, we rely on (sometimes imprecise) annotations of tissues where a gene is expressed. For example, <em>daf-16</em> is expressed in neurons, and has been largely studied in all tissues, so it appears as the top hit.</p>
+<p>Second, for annotating tissue types, we rely on the curated expression patterns from Wormbase. Another approach is to use the scRNA-Seq data now available to determine expression patterns. For example, I previously used a thresholding approach to identify neuronal genes, this annotation is available in the minipackage <a href="https://github.com/AlexWeinreb/wormDatasets">wormDatasets</a>.</p>
+<p>Finally, if we are interested in genes studied for their role in a given tissue (e.g.&nbsp;neurons), we would need a classification of the papers they’re cited in. Here, we rely on (sometimes imprecise) annotations of tissues where a gene is expressed. For example, <em>daf-16</em> is expressed in neurons, and has been largely studied in all tissues, so it appears as the top hit; that does not necessarily mean it has been studied in neurons that much.</p>
 
 
 </section>

diff --git a/index.html b/index.html
@@ -2,7 +2,7 @@
 <html xmlns="http://www.w3.org/1999/xhtml" lang="en" xml:lang="en"><head>
 
 <meta charset="utf-8">
-<meta name="generator" content="quarto-1.3.353">
+<meta name="generator" content="quarto-1.3.433">
 
 <meta name="viewport" content="width=device-width, initial-scale=1.0, user-scalable=yes">
 
@@ -57,7 +57,8 @@ ul.task-list li input[type="checkbox"] {
     "search-more-matches-text": "more matches in this document",
     "search-clear-button-title": "Clear",
     "search-detached-cancel-button-title": "Cancel",
-    "search-submit-button-title": "Submit"
+    "search-submit-button-title": "Submit",
+    "search-label": "Search"
   }
 }</script>
 <script>
@@ -169,9 +170,9 @@ ul.task-list li input[type="checkbox"] {
 
 <div class="quarto-listing quarto-listing-container-default" id="listing-listing">
 <div class="list quarto-listing-default">
-<div class="quarto-post image-right" data-index="0" data-categories="worm,R" data-listing-date-sort="1699156800000" data-listing-file-modified-sort="1699239347265" data-listing-date-modified-sort="NaN" data-listing-reading-time-sort="4">
+<div class="quarto-post image-right" data-index="0" data-categories="worm,R" data-listing-date-sort="1699156800000" data-listing-file-modified-sort="1699327715631" data-listing-date-modified-sort="NaN" data-listing-reading-time-sort="6">
 <div class="thumbnail">
-<p><a href="./posts/most_studied_genes/index.html"> <p class="card-img-top"><img src="posts\most_studied_genes\index_files\figure-html\unnamed-chunk-3-1.png"  class="thumbnail-image card-img"/></p> </a></p>
+<p><a href="./posts/most_studied_genes/index.html"> <p class="card-img-top"><img src="posts\most_studied_genes\index_files\figure-html\unnamed-chunk-4-1.png"  class="thumbnail-image card-img"/></p> </a></p>
 </div>
 <div class="body">
 <a href="./posts/most_studied_genes/index.html">

diff --git a/about.html b/about.html
@@ -2,7 +2,7 @@
 <html xmlns="http://www.w3.org/1999/xhtml" lang="en" xml:lang="en"><head>
 
 <meta charset="utf-8">
-<meta name="generator" content="quarto-1.3.353">
+<meta name="generator" content="quarto-1.3.433">
 
 <meta name="viewport" content="width=device-width, initial-scale=1.0, user-scalable=yes">
 
@@ -54,7 +54,8 @@ ul.task-list li input[type="checkbox"] {
     "search-more-matches-text": "more matches in this document",
     "search-clear-button-title": "Clear",
     "search-detached-cancel-button-title": "Cancel",
-    "search-submit-button-title": "Submit"
+    "search-submit-button-title": "Submit",
+    "search-label": "Search"
   }
 }</script>
 
